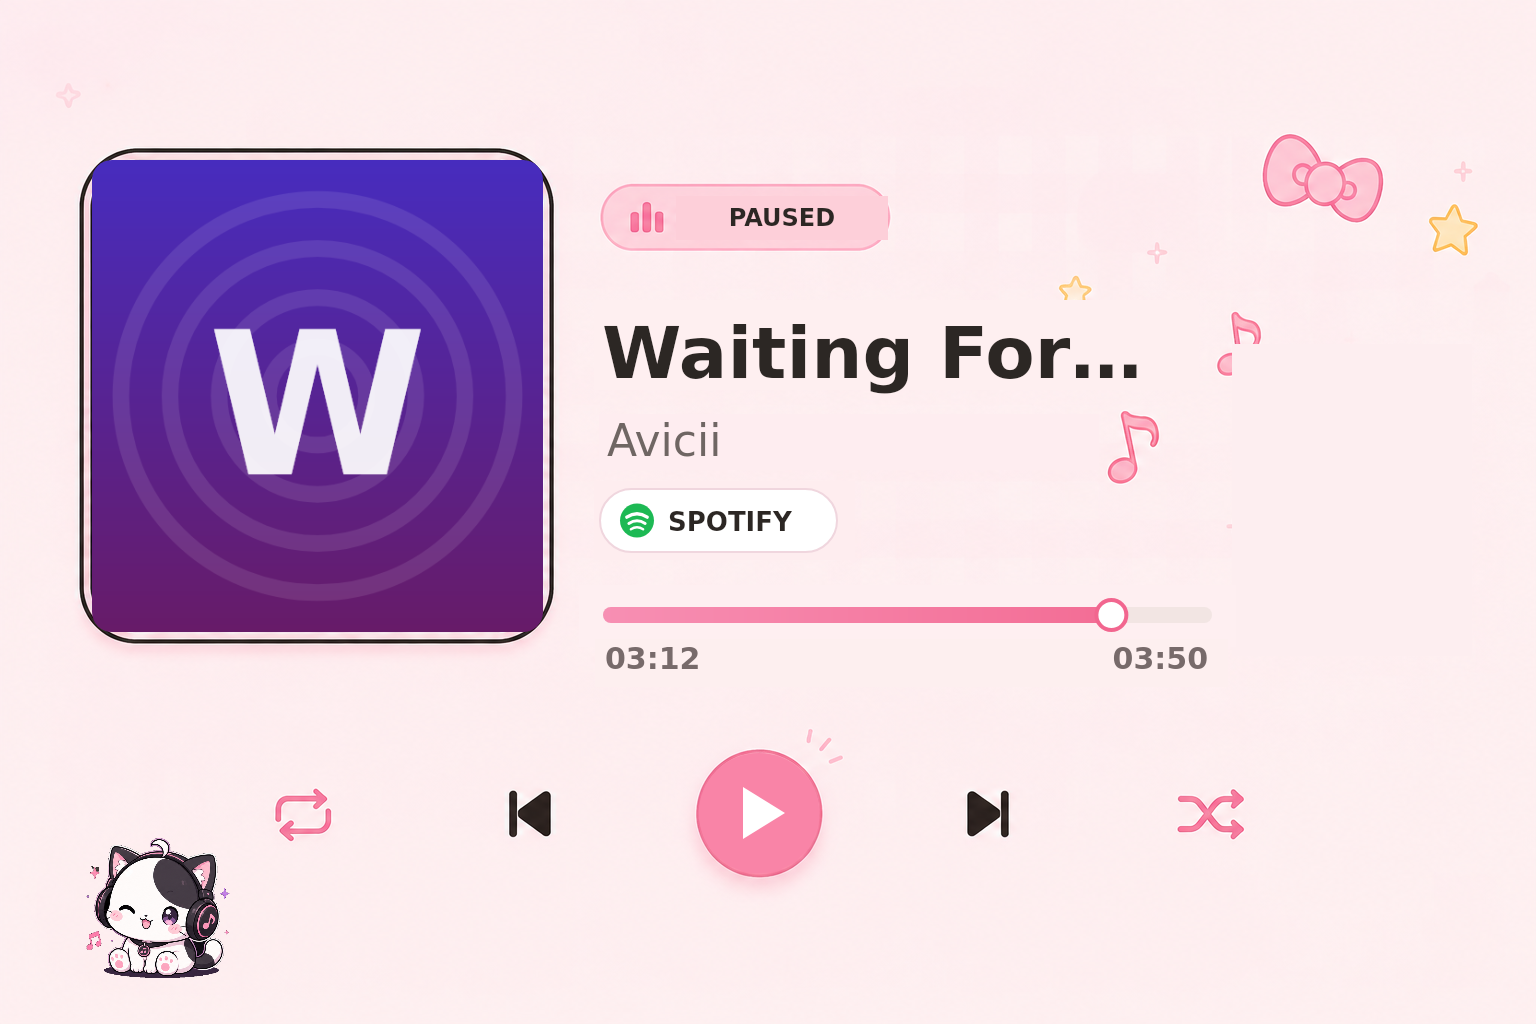
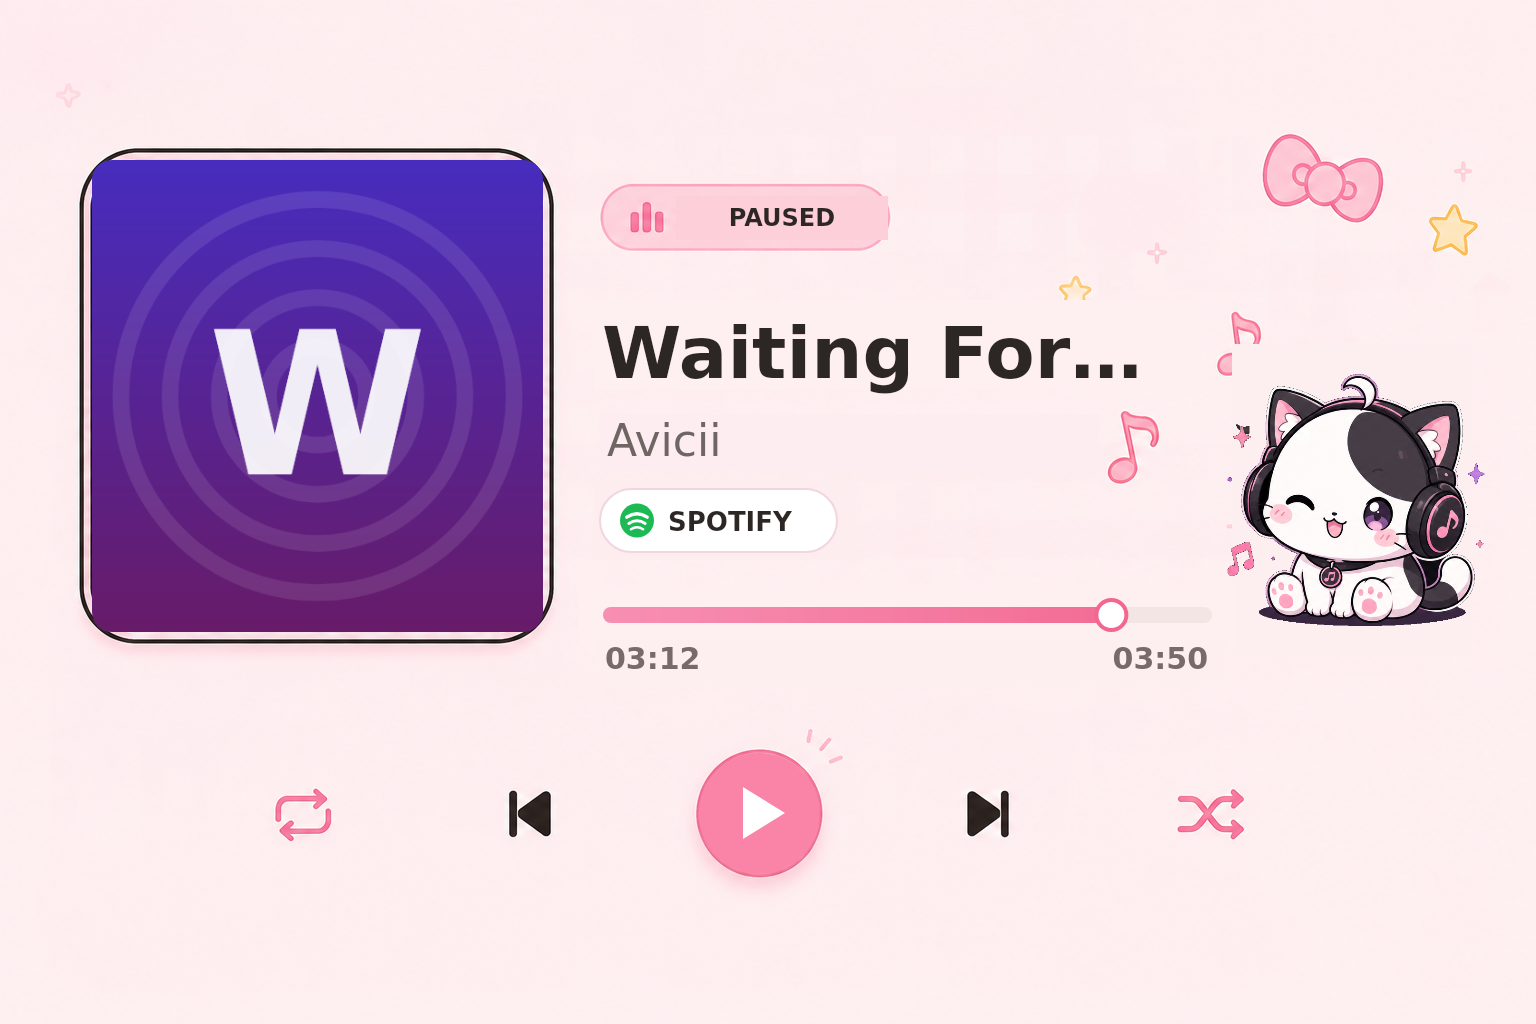
Stand the mascot where the plant was on the now playing card
The bottom-left corner was free space, not the character's place; the
layout already reserves a spot for one, which the artwork filled with the
potted plant. The mascot now takes that spot at the plant's size, clear of
the progress bar and the title's truncation width.

Changed region(s): [[0.7812, 0.375, 0.9688, 0.625], [0.0625, 0.8125, 0.1562, 0.9688]]

diff --git a/src/ui/canvas/cards/now-playing-sakura.card.ts b/src/ui/canvas/cards/now-playing-sakura.card.ts
@@ -285,9 +285,10 @@ export async function renderSakuraNowPlayingCard(data: NowPlayingCardData): Prom
   drawTimes(ctx, data);
   drawPlayButton(ctx, data);
 
-  // The bottom-left corner, beside the transport row, is the only stretch this
-  // layout leaves empty. Drawn last, as on every card, so nothing clips it.
-  await drawMascot(ctx, { centerX: 158, bottomY: 978, height: 140 });
+  // Standing where the artwork's potted plant did, which is the spot this
+  // layout reserves for a character. Drawn last, as on every card, so nothing
+  // clips it.
+  await drawMascot(ctx, { centerX: 1356, bottomY: 626, height: 252 });
 
   return canvas.toBuffer('image/png');
 }
